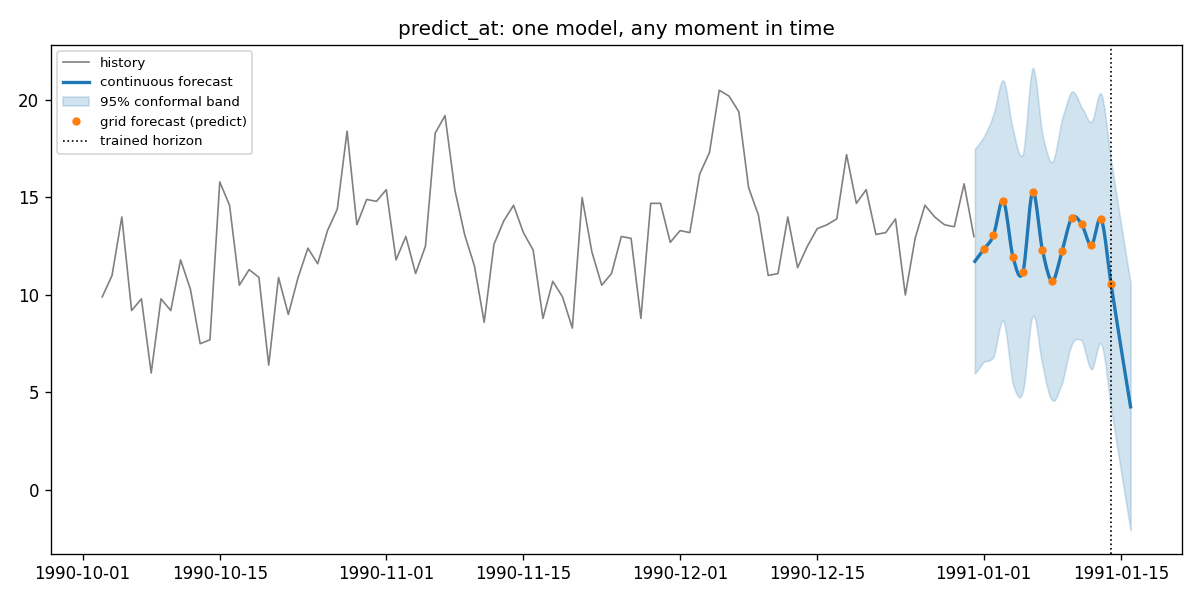
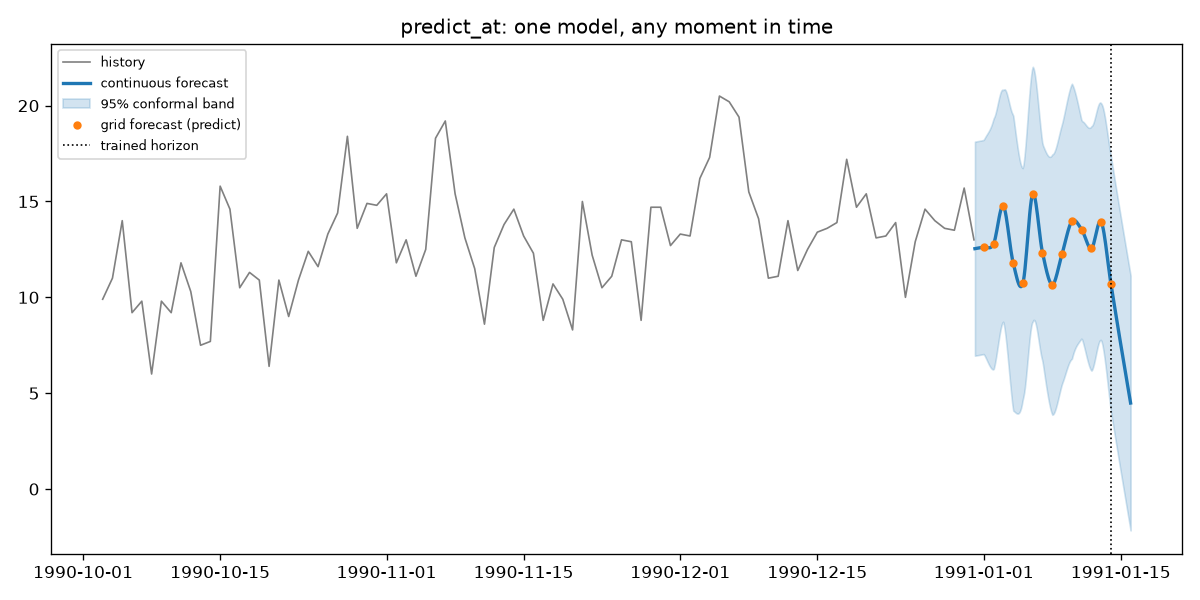
site: GPU feature, measured CPU-vs-GPU section, runnable quickstart, honest evidence
- features/production: 'GPU & device selection' card; persistence and
  CLI cards mention CPU-stored checkpoints and --device
- evidence: 'CPU or GPU?' table from benchmarks/benchmark_device.py with
  the hardware; battery row and chips show the 4-seed re-run (on par
  with linear); calibration-protocol note
- quickstart: runnable 10-line example on real data (about a minute on
  a laptop CPU, measured)
- conformal and exogenous descriptions match 0.5.0 behaviour (held-out
  calibration; exog_future not modelled yet)
- predict_at/predict_when demo images regenerated with 0.5.0; fixed the
  predict_at caption (temperatures, not sunspots); version 0.5.0

diff --git a/site/src/data/site.ts b/site/src/data/site.ts
@@ -14,7 +14,7 @@ export const img = (name: string): string => url(`images/${name}`);
 export const site = {
   name: 'APDTFlow',
   tagline: 'know WHEN it will happen',
-  version: '0.4.0',
+  version: '0.5.0',
   license: 'MIT',
   author: 'Yotam Braun',
   description:
@@ -34,6 +34,7 @@ export const docs = {
   experiments: `${site.repo}/blob/main/docs/experiment_results.md`,
   guide: `${site.repo}/blob/main/docs/index.md`,
   features: `${site.repo}/blob/main/docs/features.md`,
+  gpu: `${site.repo}/blob/main/docs/gpu_and_performance.md`,
   changelog: `${site.repo}/blob/main/CHANGELOG.md`,
 };
 
@@ -85,7 +86,7 @@ export const questions = [
 export const evidenceRows = [
   {
     audit: 'Battery end-of-life',
-    detail: '3 cells, leave-one-battery-out',
+    detail: '3 cells, leave-one-battery-out; June, one seed (4-seed re-run: on par with linear)',
     apdtflow: '8.3',
     linear: '9.7',
     persistence: '15.4',
@@ -112,7 +113,8 @@ export const evidenceRows = [
 export const evidenceChips = [
   '0 false alarms across 2,638 no-crossing windows',
   'coverage 96 / 40 / 54 vs a 90% target',
-  'every number reproducible from experiments/',
+  'battery re-run, 4 seeds: on par with linear',
+  'a script in experiments/ for every number',
 ];
 
 // Grid-accuracy benchmark (README) — MAE relative to seasonal-naive (<1.0 beats it).
@@ -124,6 +126,17 @@ export const gridRows = [
   { dataset: 'Electric production (real, 397 pts)', apdtflow: '1.52', linear: '1.03', hw: '1.23', winner: 'linear' as const },
   { dataset: 'Random walk (unpredictable)', apdtflow: '1.86', linear: '1.15', hw: '1.12', winner: 'linear' as const },
 ];
+
+// CPU vs GPU training speed (docs/gpu_and_performance.md) — measured 2026-11-02
+// with benchmarks/benchmark_device.py; seconds per epoch, median of 15 epochs.
+export const perfRows = [
+  { config: 'Default-size model (hidden 16, batch 32)', cpu: '3.6 s', gpu: '7.5 s', winner: 'cpu' as const, verdict: 'CPU, 2.1x' },
+  { config: 'Continuous decoder (hidden 64, batch 64)', cpu: '19.3 s', gpu: '27.6 s', winner: 'cpu' as const, verdict: 'CPU, 1.4x' },
+  { config: 'NASA battery, 66 windows (hidden 16)', cpu: '0.65 s', gpu: '1.75 s', winner: 'cpu' as const, verdict: 'CPU, 2.7x' },
+  { config: 'Large model (hidden 128, batch 256)', cpu: '35.3 s', gpu: '15.6 s', winner: 'gpu' as const, verdict: 'GPU, 2.3x' },
+];
+export const perfHardware =
+  'Intel Core i7-12700H vs NVIDIA RTX 3050 Ti Laptop GPU (4 GB), WSL2, PyTorch 2.14.1, apdtflow 0.5.0.';
 
 // Capability matrix (README) — capabilities, not accuracy.
 export const capabilities = [
@@ -286,7 +299,7 @@ schedule.to_csv('maintenance_schedule.csv')`,
         name: 'Conformal intervals',
         value: 'Split and adaptive conformal calibration on every forecast.',
         description:
-          'Conformal prediction wraps a point forecast in an interval whose coverage you can verify on held-out data — split conformal is fast, adaptive adjusts as the distribution shifts. Switch it on at construction and predict() can hand back calibrated lower/upper bands.',
+          'Conformal prediction wraps a point forecast in an interval whose coverage you can verify on held-out data — split conformal is fast, adaptive adjusts as the distribution shifts. The most recent 20% of training windows (calibration_split) is held out of training and used only for calibration. Switch it on at construction and predict() can hand back calibrated lower/upper bands.',
         api: "APDTFlowForecaster(use_conformal=True, conformal_method='adaptive')",
         snippet: `model = APDTFlowForecaster(use_conformal=True, conformal_method='split')
 model.fit(df, target_col='y')
@@ -321,9 +334,9 @@ model.sensor_importance_      # learned weight per input channel`,
       },
       {
         name: 'Exogenous variables',
-        value: 'Bring known drivers (promotions, weather) with concat / gated / attention fusion.',
+        value: 'Bring outside drivers (promotions, weather) with concat / gated / attention fusion.',
         description:
-          'Add outside drivers that move the series — promotions, weather, price. Choose how they combine with the signal (concat, gated, or attention), and pass future_exog_cols for drivers whose future values you will know at forecast time.',
+          'Add outside drivers that move the series — promotions, weather, price — and choose how they combine with the signal (concat, gated, or attention). The model uses them over its input window; future-known values (exog_future) do not change the forecast yet, and modelling them is on the roadmap.',
         api: 'fit(..., exog_cols=[...], future_exog_cols=[...])',
         snippet: `model = APDTFlowForecaster(exog_fusion_type='gated')
 model.fit(df, target_col='sales', exog_cols=['promo'], future_exog_cols=['promo'])
@@ -399,8 +412,8 @@ s['coverage']      # vs expected coverage — recalibrate if it drops`,
         name: 'Persistence',
         value: 'Save and load the model with its scalers and conformal calibration intact.',
         description:
-          'save() / load() round-trip the weights, the fitted scalers, and the conformal calibration together, so a reloaded model forecasts and calibrates exactly as before. Checkpoints record the library version and refuse incompatible ones.',
-        api: "model.save('m.pt'); APDTFlowForecaster.load('m.pt')",
+          'save() / load() round-trip the weights, the fitted scalers, and the conformal calibration together, so a reloaded model forecasts and calibrates exactly as before. Weights are stored on CPU, so a model trained on a GPU loads on any machine. Checkpoints record the library version and refuse incompatible ones.',
+        api: "model.save('m.pt'); APDTFlowForecaster.load('m.pt', device='auto')",
       },
       {
         name: 'TorchScript export',
@@ -417,6 +430,14 @@ s['coverage']      # vs expected coverage — recalibrate if it drops`,
         api: 'uvicorn serve_api:app',
         example: 'serve_api.py',
         exampleLabel: 'serve_api.py',
+      },
+      {
+        name: 'GPU & device selection',
+        value: "device='auto' picks CUDA, then Apple MPS, then CPU; move a fitted model with .to().",
+        description:
+          'Training, conformal calibration, predict, predict_at, predict_when and fleet scoring all run on the selected device, and checkpoints are stored on CPU so a GPU-trained model loads anywhere. Measured on a laptop: the default-size model trains faster on CPU; the GPU pays off for larger models and batches.',
+        api: "APDTFlowForecaster(device='auto'); model.to('cpu')",
+        note: 'Benchmark table, hardware and when a GPU helps: docs/gpu_and_performance.md.',
       },
       {
         name: 'Reproducible runs',
@@ -451,7 +472,7 @@ s['coverage']      # vs expected coverage — recalibrate if it drops`,
         value: 'Train and forecast straight from the terminal.',
         description:
           'apdtflow train and apdtflow infer cover CSV-in / forecast-out workflows without writing any Python.',
-        api: 'apdtflow train --csv_file data.csv --value_col y',
+        api: 'apdtflow train --csv_file data.csv --value_col y --device auto',
       },
     ],
   },

diff --git a/site/README.md b/site/README.md
@@ -5,7 +5,7 @@ and Tailwind CSS and deployed to GitHub Pages at
 **https://yotambraun.github.io/APDTFlow/**.
 
 This directory is completely separate from the Python package: it is never
-included in the wheel/sdist (packaging uses `find_packages()`), and `ci.yml`
+included in the wheel (`pyproject.toml` packages only `apdtflow*`), and `ci.yml`
 ignores `site/**`, so changes here never touch PyPI or run the Python test suite.
 
 ## Develop
